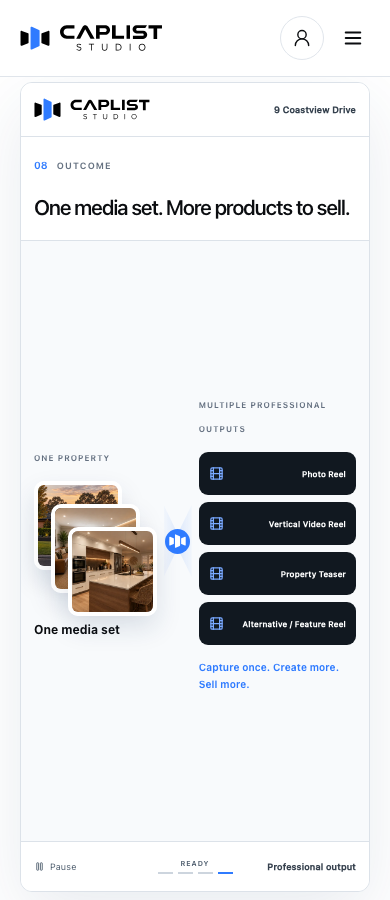
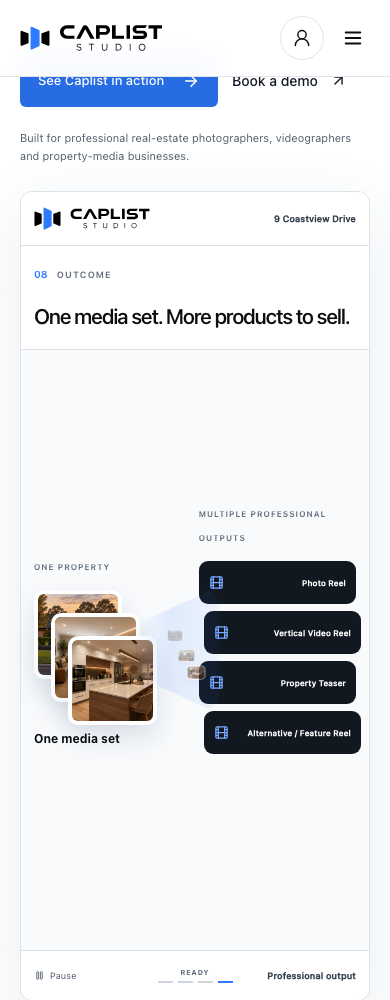
Clarify Outcome with flowing media transformation

diff --git a/components/home/workflow/workflow.module.css b/components/home/workflow/workflow.module.css
@@ -841,31 +841,43 @@
 
 .outcomeBridge > i {
   position: absolute;
-  left: 0;
-  width: 100%;
-  height: 72px;
+  left: -55px;
+  width: calc(100% + 110px);
+  height: 144px;
   display: block;
-  background: linear-gradient(90deg, #2f7bff08, #2f7bff20, #2f7bff08);
-  clip-path: polygon(0 0, 50% 40%, 100% 0, 100% 100%, 50% 60%, 0 100%);
+  background: linear-gradient(90deg, #2f7bff04, #2f7bff1f 42%, #2f7bff0c);
+  clip-path: polygon(0 30%, 100% 0, 100% 100%, 0 70%);
+  border-radius: 24px;
 }
 
-.outcomeArrow {
-  position: relative;
-  z-index: 1;
-  width: 25px;
-  height: 25px;
-  display: grid;
-  place-items: center;
-  padding: 4px;
-  color: #fff;
-  background: var(--workflow-blue);
-  border-radius: 50%;
+.outcomeFragments {
+  position: absolute;
+  inset: 0 -44px;
+  pointer-events: none;
 }
 
-.outcomeArrow img {
-  width: 17px;
-  height: 14px;
-  filter: brightness(0) invert(1);
+.outcomeFragments img {
+  position: absolute;
+  width: 32px;
+  height: 23px;
+  object-fit: cover;
+  border: 2px solid white;
+  border-radius: 4px;
+  box-shadow: 0 3px 8px #17385914;
+  left: 22%;
+  top: 28%;
+  opacity: .7;
+}
+
+.outcomeFragments img:nth-child(2) { left: 43%; top: 48%; opacity: .45; }
+.outcomeFragments img:nth-child(3) { left: 67%; top: 65%; opacity: .2; }
+.outcomeSource, .outcomeProducts { position: relative; z-index: 1; }
+.outcomeBridge { z-index: 2; pointer-events: none; }
+
+@media (max-width: 640px) {
+  .outcomeBridge > i { left: -28px; width: calc(100% + 56px); height: 128px; }
+  .outcomeFragments { inset-inline: -23px; }
+  .outcomeFragments img { width: 20px; height: 15px; border-width: 1px; }
 }
 
 .outcomeProducts > div {

diff --git a/components/home/workflow/useWorkflowMotion.ts b/components/home/workflow/useWorkflowMotion.ts
@@ -115,7 +115,12 @@ export function useWorkflowMotion(state: WorkflowState, enabled: boolean, runnin
         break;
       case "outcome":
         run(query("outcomeBridge") + " i", [{ opacity: 0 }, { opacity: 1 }], 160, 360, 100);
-        reveal(query("outcomeProducts") + " article", 350, 220, mobile ? -9 : -24);
+        run(query("outcomeFragments") + " img", [
+          { transform: `translateX(${mobile ? -18 : -35}px) scale(1)`, opacity: 0, filter: "blur(0px)" },
+          { offset: .2, transform: `translateX(${mobile ? -10 : -20}px) scale(1)`, opacity: .8, filter: "blur(0px)" },
+          { offset: .65, opacity: .35, filter: "blur(.5px)" },
+          { transform: `translateX(${mobile ? 16 : 32}px) scale(.75)`, opacity: 0, filter: "blur(1.2px)" },
+        ], 180, 2200, 180);
         reveal(query("outcomeProducts") + " > p", 1250);
         break;
     }

diff --git a/components/home/workflow/WorkflowScenes.tsx b/components/home/workflow/WorkflowScenes.tsx
@@ -281,7 +281,9 @@ function OutcomeScene() {
       </div>
       <div className={styles.outcomeBridge} aria-hidden="true">
         <i />
-        <span className={styles.outcomeArrow}><img src="/brand/caplist-mark-light.svg" alt="" /></span>
+        <div className={styles.outcomeFragments}>
+          {propertyMedia.slice(0, 3).map(media => <img key={media.src} src={media.src} alt="" />)}
+        </div>
       </div>
       <div className={styles.outcomeProducts}>
         <span>Multiple professional outputs</span>
